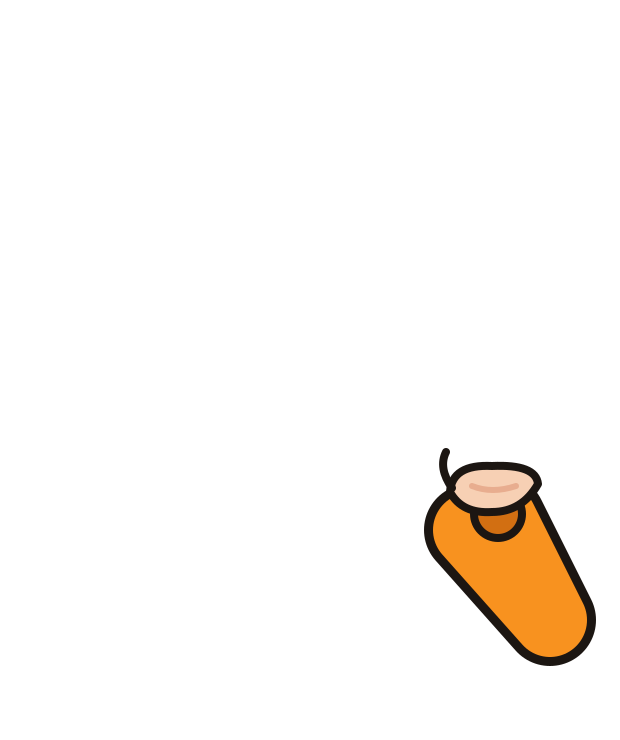
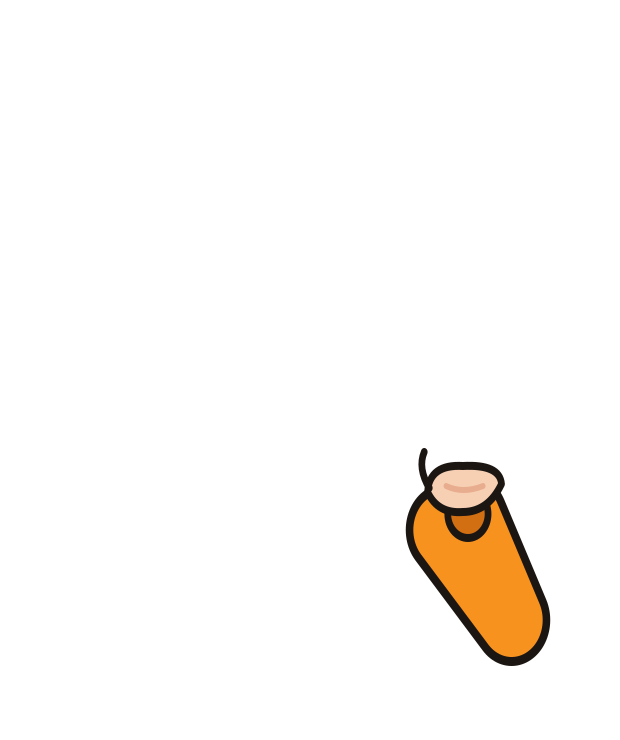
Max narrador: más flaco y con pelo despeinado suave (sin puntas)
Claude-Session: https://claude.ai/code/session_011EBLdtDwFqTXk5MdXRVpHG

Changed region(s): [[0.6435, 0.5905, 0.9806, 0.9014]]

diff --git a/tools/make_max_puppet.py b/tools/make_max_puppet.py
@@ -47,6 +47,10 @@ def _svg(inner):
     return f'<svg xmlns="http://www.w3.org/2000/svg" viewBox="{VIEWBOX}" width="{W}" height="{H}">{inner}</svg>'
 
 
+SLIM_FACE = 'transform="translate(400 0) scale(0.87 1) translate(-400 0)"'
+SLIM_BODY = 'transform="translate(400 0) scale(0.84 1) translate(-400 0)"'
+
+
 def _render(inner, name):
     subprocess.run(["rsvg-convert", "-o", os.path.join(OUT, name + ".png")], input=_svg(inner).encode(), check=True)
 
@@ -135,25 +139,25 @@ FACE = f"""
 <path d="M410 486 Q420 482 418 472" fill="none" stroke="{SKIN_SH}" stroke-width="6" stroke-linecap="round"/>
 """
 
-# Mechones: forma general en punta + flequillo cayendo sobre la frente (más alto que antes, para que se vean las cejas)
-HAIR_PATH = ("M268 410 L250 366 L216 360 L242 326 L204 298 L248 284 L224 238 L274 242 L268 192 L314 212 "
-             "L326 158 L364 194 L390 136 L416 188 L454 146 L462 198 L508 172 L502 222 L552 210 L532 256 "
-             "L582 262 L550 296 L586 324 L542 332 L560 374 L534 410 L526 360 L512 330 L500 344 L482 312 "
-             "L462 328 L446 300 L424 320 L408 290 L386 318 L368 292 L350 318 L330 292 L314 322 L298 302 "
-             "L288 352 Z")
+# Pelo despeinado pero suave: mechones redondeados (no en punta) y flequillo cayendo de costado
+HAIR_PATH = ("M298 410 Q280 384 290 356 Q266 336 284 306 Q268 276 300 260 Q298 228 336 228 "
+             "Q352 204 384 216 Q406 196 432 214 Q464 204 478 232 Q510 236 510 266 Q534 286 516 312 "
+             "Q534 338 512 358 Q516 384 498 402 Q494 370 484 340 Q468 346 456 326 Q436 344 408 328 "
+             "Q388 346 360 332 Q340 348 318 334 Q304 370 298 410 Z")
 HAIR = f"""
 <path d="{HAIR_PATH}" fill="{HAIR}"/>
 <g fill="{HAIR_SH}">
-  <path d="M470 200 L508 172 L502 222 L552 210 L532 256 L582 262 L550 296 L586 324 L542 332 L560 374 L534 410 L526 360 L512 330 L500 344 L482 312 L500 290 L520 300 L512 260 L490 250 Z"/>
-  <path d="M300 250 L330 236 L350 262 L322 270 Z"/>
-  <path d="M400 214 L430 204 L436 240 L410 236 Z"/>
+  <path d="M478 232 Q510 236 510 266 Q534 286 516 312 Q534 338 512 358 Q516 384 498 402 Q494 370 484 340
+           Q500 326 496 306 Q508 282 490 262 Q494 244 478 232 Z"/>
+  <path d="M456 326 Q436 344 408 328 Q432 314 456 326 Z"/>
+  <path d="M360 332 Q340 348 318 334 Q340 322 360 332 Z"/>
 </g>
 <path d="{HAIR_PATH}" fill="none" stroke="{INK}" stroke-width="10" stroke-linejoin="round"/>
-<g fill="none" stroke="{HAIR_HI}" stroke-width="6" stroke-linecap="round">
-  <path d="M286 268 L318 238"/><path d="M366 222 L384 176"/><path d="M430 214 L452 178"/><path d="M262 316 L290 300"/>
+<g fill="none" stroke="{HAIR_HI}" stroke-width="7" stroke-linecap="round">
+  <path d="M318 272 Q340 248 372 240"/><path d="M404 226 Q428 216 452 224"/><path d="M296 320 Q304 300 320 292"/>
 </g>
 <g fill="none" stroke="{INK}" stroke-width="5" stroke-linecap="round">
-  <path d="M352 300 L366 262"/><path d="M420 296 L432 258"/><path d="M482 310 L496 276"/><path d="M300 296 L312 268"/>
+  <path d="M340 300 Q366 278 404 270"/><path d="M424 302 Q446 282 478 278"/><path d="M314 326 Q322 304 346 294"/>
 </g>"""
 
 
@@ -171,8 +175,8 @@ def _pupils(dx=4, dy=4, r=12, spark=True):
     return out
 
 
-SWEAT = (f'<path d="M548 330 Q562 356 548 368 Q534 356 548 330 Z" fill="#a8dcff" stroke="{INK}" stroke-width="5"/>'
-         '<path d="M545 352 Q544 360 549 362" fill="none" stroke="#fff" stroke-width="3" stroke-linecap="round"/>')
+SWEAT = (f'<path d="M524 334 Q538 360 524 372 Q510 360 524 334 Z" fill="#a8dcff" stroke="{INK}" stroke-width="5"/>'
+         '<path d="M521 356 Q520 364 525 366" fill="none" stroke="#fff" stroke-width="3" stroke-linecap="round"/>')
 
 
 def eyes(emo, closed):
@@ -204,11 +208,11 @@ def eyes(emo, closed):
 BROWS = {
     "neutral": ("M312 368 C330 354 360 352 384 360", "M416 360 C440 352 470 354 488 368"),
     "happy": ("M312 360 C330 344 360 342 384 350", "M416 350 C440 342 470 344 488 360"),
-    "excited": ("M312 352 C330 332 362 330 386 342", "M414 342 C438 330 470 332 488 352"),
-    "surprised": ("M314 348 C330 324 364 322 386 336", "M414 336 C436 322 470 324 486 348"),
+    "excited": ("M312 358 C330 340 362 338 386 348", "M414 348 C438 338 470 340 488 358"),
+    "surprised": ("M314 356 C330 336 364 334 386 346", "M414 346 C436 334 470 336 486 356"),
     "worried": ("M312 368 C334 366 360 356 382 340", "M418 340 C440 356 466 366 488 368"),
-    "scared": ("M312 360 C334 358 360 346 382 326", "M418 326 C440 346 466 358 488 360"),
-    "thinking": ("M312 372 C334 368 362 368 384 370", "M416 342 C440 326 470 328 488 346"),
+    "scared": ("M312 364 C334 362 360 352 382 336", "M418 336 C440 352 466 362 488 364"),
+    "thinking": ("M312 372 C334 368 362 368 384 370", "M416 350 C440 336 470 338 488 354"),
 }
 
 
@@ -263,10 +267,10 @@ def main():
     for f in os.listdir(OUT):
         if f.endswith(".png"):
             os.remove(os.path.join(OUT, f))
-    _render(BODY, "body")
+    _render(f"<g {SLIM_BODY}>{BODY}</g>", "body")
     for g in GESTURES:
-        _render(arms(g), f"arms_{g}")
-    _render(FACE, "face")
+        _render(f"<g {SLIM_BODY}>{arms(g)}</g>", f"arms_{g}")
+    _render(f"<g {SLIM_FACE}>{FACE}</g>", "face")
     _render(HAIR, "hair")
     for e in EMOTIONS:
         _render(eyes(e, False), f"eyes_{e}")
